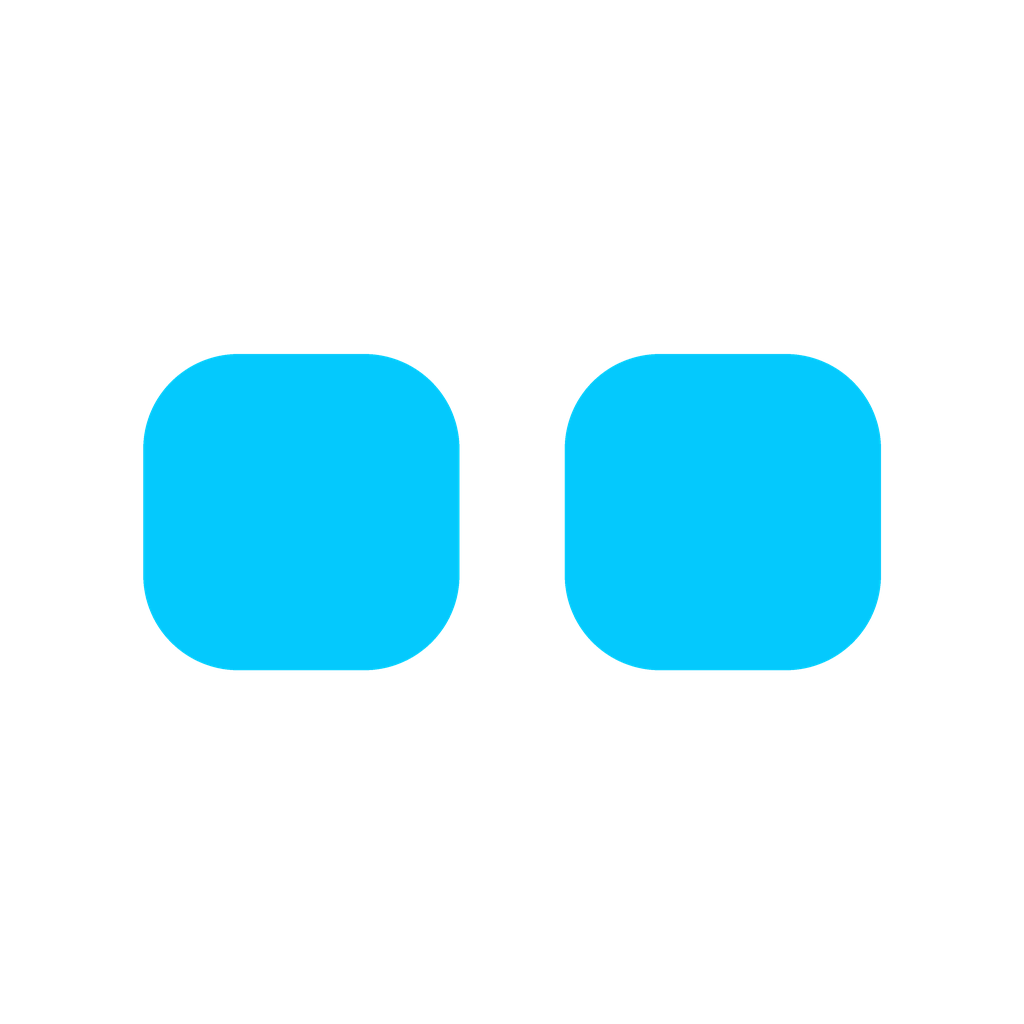
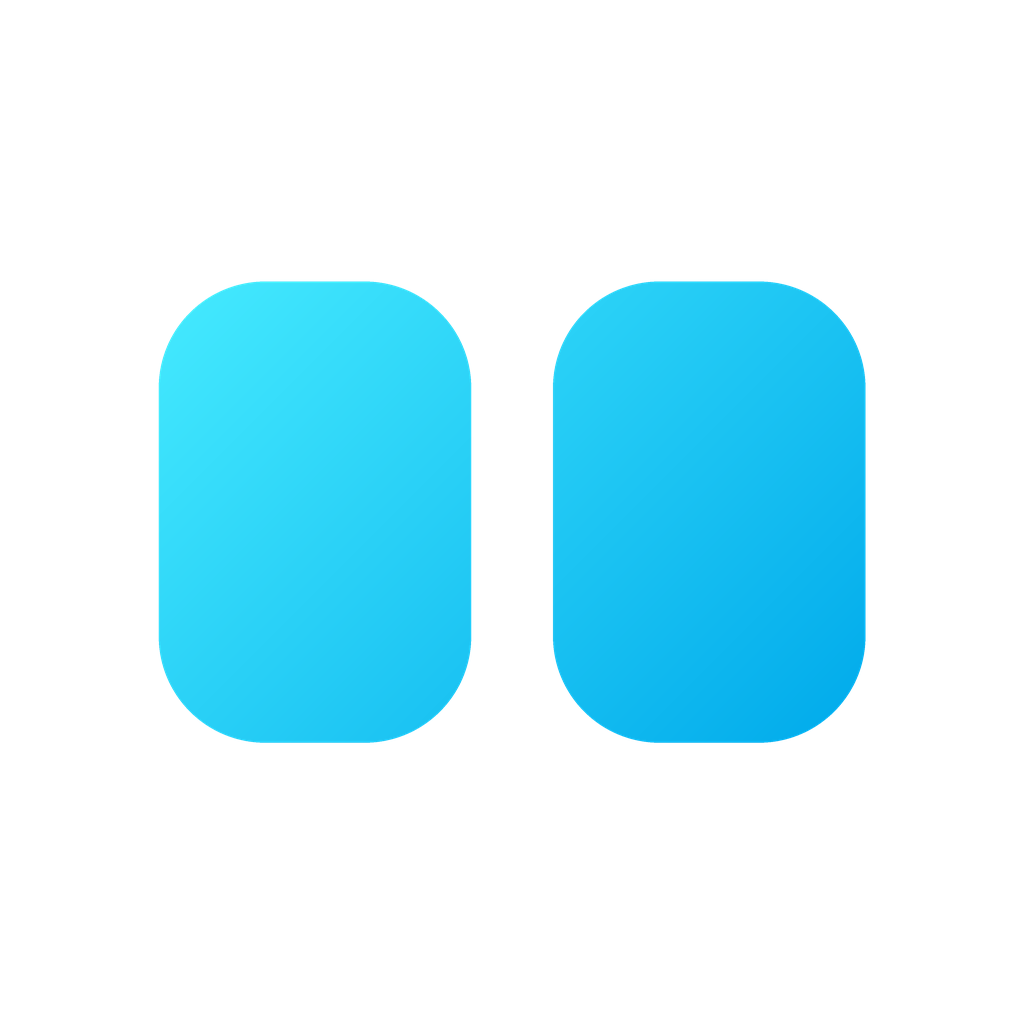
Identidade: o ícone volta aos olhos altos de antes, em ciano e quadrado

Changed region(s): [[0.125, 0.25, 0.4688, 0.75], [0.5312, 0.25, 0.875, 0.75]]

diff --git a/fontes/github/.github/profile/README.md b/fontes/github/.github/profile/README.md
@@ -1,6 +1,6 @@
 <div align="center">
 
-<img src="atlas.png" width="140" alt="Os olhos da Atlas: dois olhos ciano quadrados" />
+<img src="atlas.png" width="140" alt="Os olhos da Atlas, em ciano" />
 
 # 🤖 SETREM Robot
 
